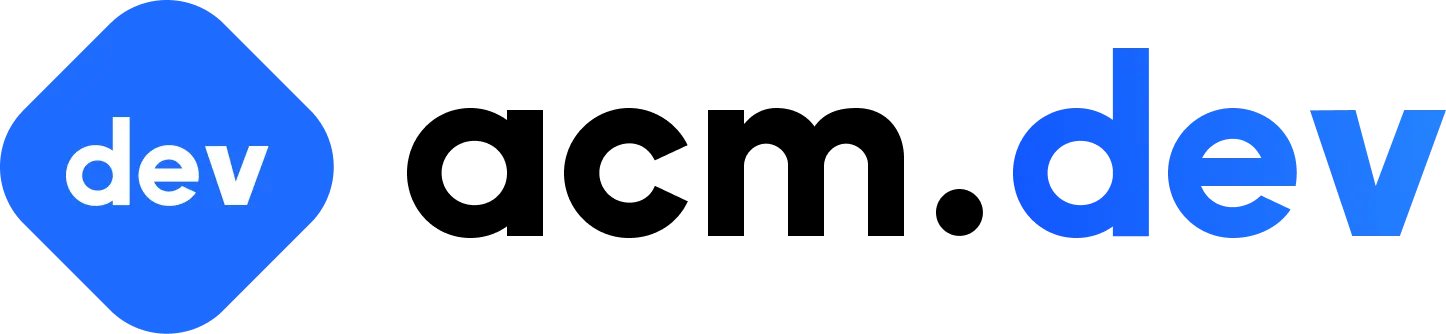
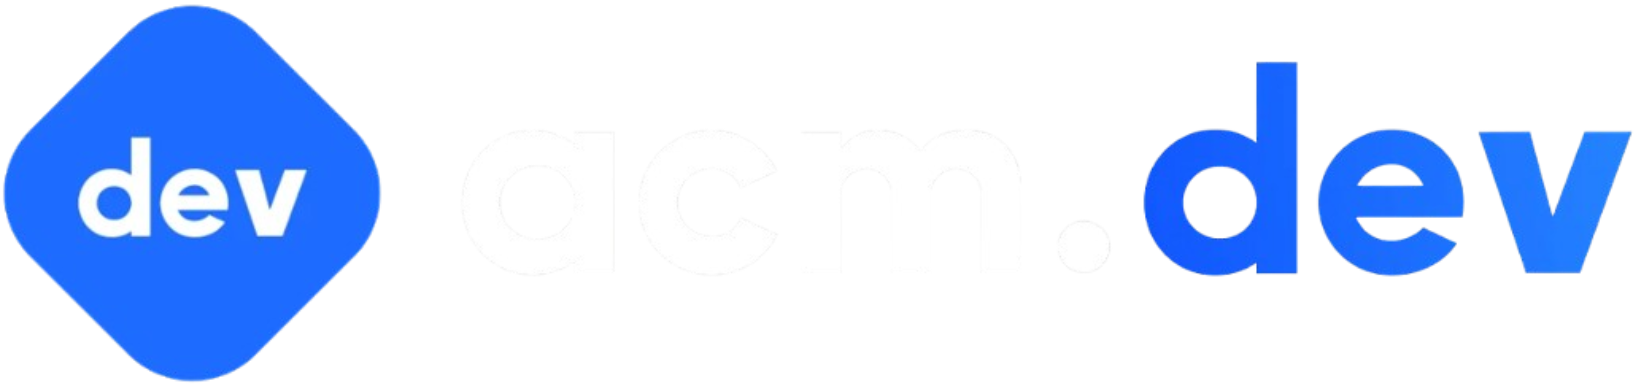
responsive scss

diff --git a/src/components/Home/Banner.scss b/src/components/Home/Banner.scss
@@ -40,7 +40,7 @@
     }
 
     .branding-badge {
-      width: 120px;
+      width: 180px;
       height: auto;
     }
   }
@@ -67,6 +67,7 @@
 
 .name {
   margin: 0;
+  text-align: center;
   font-size: 2.2rem;
   font-weight: 600;
 }
@@ -89,4 +90,16 @@
   align-items: center;
   height: 100%;
   width: 100%;
+}
+
+// smaller screens
+@media (max-height: 899px) {
+  .profile-picture {
+  width: 200px;
+  height: 200px;
+  }
+
+  .name {
+    font-size: 1.5rem;
+  }
 }
